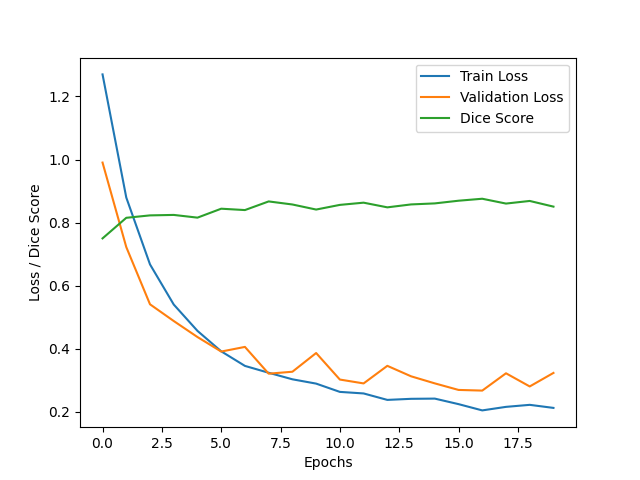
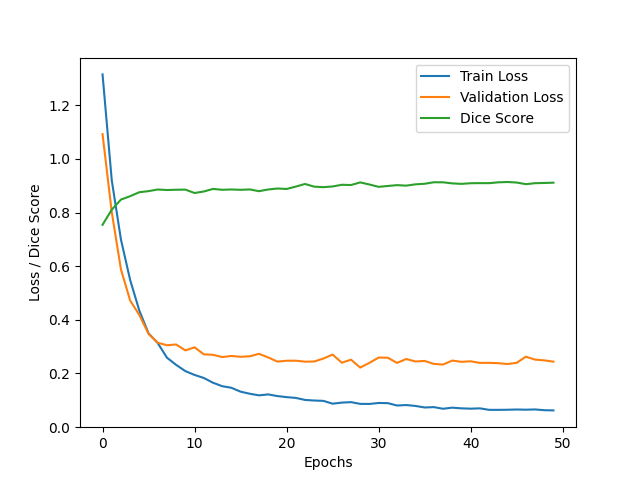
improved pretrained model (0.9141)

diff --git a/classical_ml/models/train_pretrained.py b/classical_ml/models/train_pretrained.py
@@ -80,7 +80,7 @@ train_transforms = Compose([
     EnsureChannelFirstd(keys=["image", "mask"]),
     ScaleIntensityRanged(keys=["image"], a_min=0, a_max=255, b_min=0.0, b_max=1.0, clip=True),
     ScaleIntensityRanged(keys=["mask"],  a_min=0, a_max=255, b_min=0.0, b_max=1.0, clip=True),
-    Resized(keys=["image", "mask"], spatial_size=(256, 256)),
+    Resized(keys=["image", "mask"], spatial_size=(320, 320)),                                   # (256, 256)),
     RandFlipd(keys=["image", "mask"], prob=0.5, spatial_axis=0),
     RandFlipd(keys=["image", "mask"], prob=0.5, spatial_axis=1),
     RandRotated(keys=["image", "mask"], range_x=15, prob=0.5),
@@ -95,7 +95,7 @@ val_transforms = Compose([
     EnsureChannelFirstd(keys=["image", "mask"]),
     ScaleIntensityRanged(keys=["image"], a_min=0, a_max=255, b_min=0.0, b_max=1.0, clip=True),
     ScaleIntensityRanged(keys=["mask"],  a_min=0, a_max=255, b_min=0.0, b_max=1.0, clip=True),
-    Resized(keys=["image", "mask"], spatial_size=(256, 256)),
+    Resized(keys=["image", "mask"], spatial_size=(320, 320)),                               # (256, 256)),
     ToTensord(keys=["image", "mask"])
 ])
 
@@ -121,7 +121,7 @@ device = get_device()
 print(f"Using device: {device}")
 
 model = smp.Unet(
-    encoder_name="resnet34",
+    encoder_name="efficientnet-b4",           # "resnet34",
     encoder_weights="imagenet",
     in_channels=3,
     classes=1,
@@ -138,7 +138,7 @@ def criterion(outputs, masks):
 
 optimizer = optim.Adam(model.parameters(), lr=1e-4)
 scheduler = optim.lr_scheduler.ReduceLROnPlateau(optimizer, mode="min", patience=5, factor=0.5)
-num_epochs = 20
+num_epochs = 50     # 20
 
 # ---------------------------------------------------------------------------
 # Training loop — tracks Dice score as well as loss
@@ -205,7 +205,7 @@ for epoch in range(num_epochs):
 
     if val_dice > best_val_dice:
         best_val_dice = val_dice
-        save_path = MODELS_DIR / "unet_pretrained.pth"
+        save_path = MODELS_DIR / "unet_pretrained_improved_2.pth"
         MODELS_DIR.mkdir(parents=True, exist_ok=True)
         torch.save(model.state_dict(), save_path)
         print(f"  ✅ Best model saved → {save_path}  (val dice: {val_dice:.4f})")
@@ -217,7 +217,7 @@ print(f"  Architecture : UNet with ResNet34 encoder pretrained on ImageNet")
 print(f"  Loss         : Dice Loss + Binary Cross Entropy")
 print(f"  Optimiser    : Adam (lr=1e-4) with ReduceLROnPlateau scheduler")
 print(f"  Dataset      : Kvasir-SEG, 800 train / 100 val / 100 test")
-print(f"  Input size   : 256x256")
+print(f"  Input size   : 320x320")
 
 plt.plot(epochs, train_loss_history, label="Train Loss")
 plt.plot(epochs, val_loss_history, label="Validation Loss")
